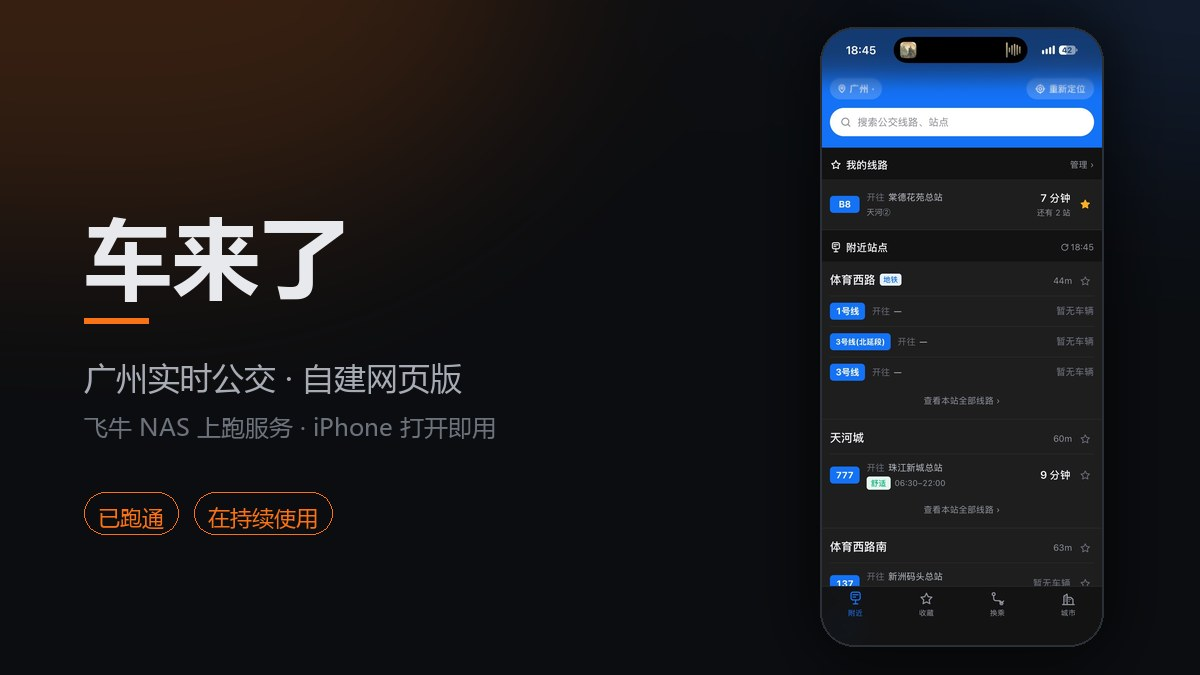
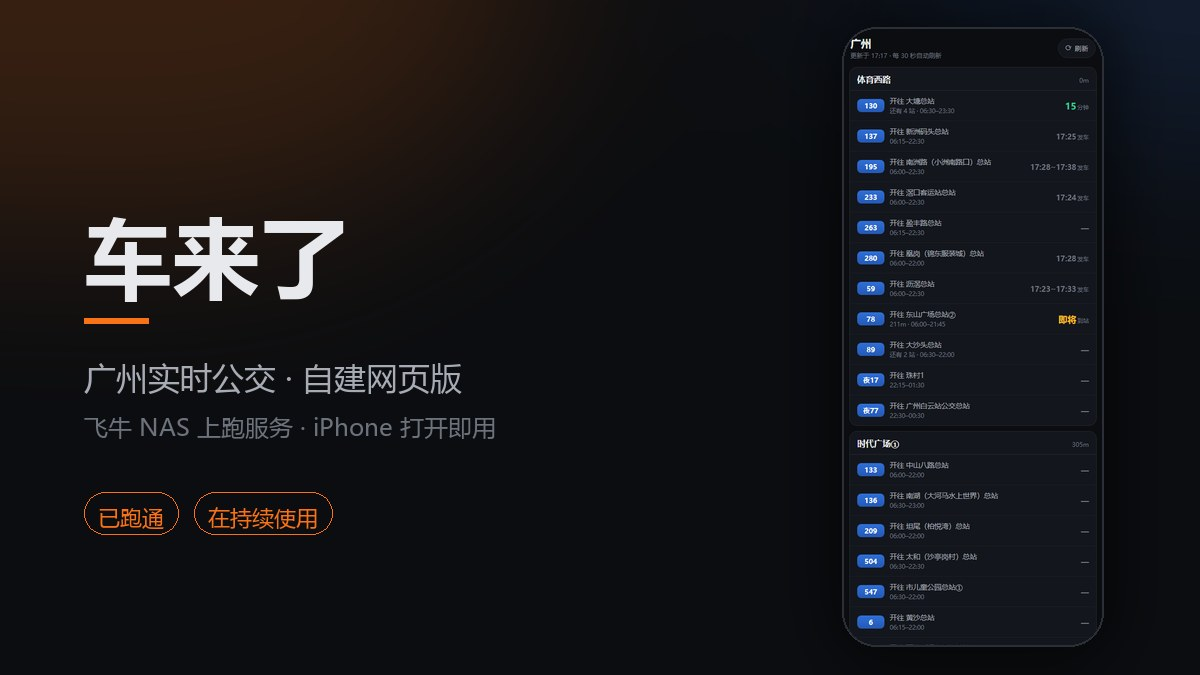
content: 车来了项目改为 Cloudflare 架构（边缘函数签名 + 自动部署）

diff --git a/src/content/projects/chelaile.md b/src/content/projects/chelaile.md
@@ -1,13 +1,13 @@
 ---
-title: 车来了：把广州实时公交数据抓下来自己用
-summary: 想在自己设备上查到站时间。翻了官方 H5 产物，确认签名不在网页里；改用现成的开源实现把数据打通，挂到家里的 NAS 上做成网页，iPhone 打开就能看。
+title: 车来了：把广州实时公交做成自己的网页
+summary: 从官网 H5 产物一路查到能落地的数据链路，先挂在 NAS 上用了半个月，后来重做成 Astro + Cloudflare Pages 全托管：签名和解密都在边缘函数里跑，push 就上线。
 status: 已跑通
 startDate: 2026-10-15
 cost: 0
-hours: 5
-stack: [JavaScript, 前端产物分析, 第三方 API, 飞牛 NAS]
+hours: 12
+stack: [Astro, Cloudflare Pages, Pages Functions, JavaScript, 前端产物分析]
 cover: /covers/chelaile-cover.jpg
-tags: [逆向, 数据抓取, 公交, 数据分析]
+tags: [逆向, 数据抓取, 公交, Cloudflare, 边缘计算]
 featured: true
 changelog:
   - date: 2026-10-15
@@ -15,14 +15,16 @@ changelog:
   - date: 2026-10-15
     note: 改用现成开源实现打通数据，广州线路、站点、在途车、到站倒计时都能取到。
   - date: 2026-10-20
-    note: 部署到飞牛 NAS，做成网页，iPhone 上直接打开查线。
+    note: 第一版落在飞牛 NAS 上，Nuxt 跑服务，iPhone 上直接打开查线。
+  - date: 2026-10-27
+    note: 重做成 Astro + Pages Functions，签名解密搬到边缘，不再依赖家里的机器。
 ---
 
 ## 背景
 
 「车来了」是个实时公交 App，我实际只想要一个功能：**广州的公交车现在到哪了、还有多久到站**。
 
-官方 App 广告多、要登录、要开定位权限。想法很朴素——能不能只取那一小块数据，塞进自己的小屏或者脚本里。
+官方 App 广告多、要登录、要开定位权限。想法很朴素——能不能只取那一小块数据，塞进自己的页面里。
 
 ## 方案
 
@@ -65,8 +67,43 @@ index.html
 拿它验证了一下，数据是真的：城市 ID、站点下的线路、在途车辆、到站倒计时都能拿到。
 **既然路已经有人铺好，就没必要自己去反编译 78MB 的 APK。**
 
-接上去之后就没再停。最后它落在**家里常开的飞牛 NAS** 上，做成一个网页——
-出门前在 iPhone 上打开，看一眼要坐的线路和到站时间，跟装个 App 没区别，但干净得多。
+## 第一版：挂在 NAS 上
+
+最先的版本是 Nuxt 跑在家里那台飞牛 NAS 上，Cloudflare 回源——能用，也用了半个月。
+
+但它有个隐患：**出门在外，能不能查到车取决于家里那台机器**。断电、重启、宽带抽风、系统更新，
+任何一个环节出问题，页面上就是 522。出门前想看车却发现打不开，这种事发生一次就够了。
+
+## 第二版：搬到 Cloudflare 全托管
+
+改造思路和我的个人站一样：**Astro 静态页 + Cloudflare Pages + GitHub 自动部署**，成本 0。
+
+难点只有一个：**签名和解密必须放在服务端**，不能放浏览器（会暴露算法，也有跨域问题）。
+Cloudflare Pages 的边缘函数正好接住这一层：
+
+```
+浏览器 ──GET /api/nearby?lat&lng──▶ Pages Function
+                                      ├─ MD5 签名
+                                      ├─ 请求 web.chelaile.net.cn
+                                      └─ AES-256-ECB 解密，整理成精简 JSON
+```
+
+中间这一段比想象中麻烦，两个坑：
+
+**一、WebCrypto 里没有 MD5**
+
+这倒好办，纯 JS 实现一个，和 `node:crypto` 对拍 7 组（含中文、长串、空串）全一致。
+
+**二、WebCrypto 里也没有 AES-ECB**
+
+这个才是真卡点。WebCrypto 只给 CBC / CTR / GCM，而 **CBC 会校验 PKCS#7 填充**——
+拿它去解 ECB 密文，最后一块必然对不上，直接抛 `OperationError`。
+
+试过把整段密文丢给 CBC 零 IV 解密再用前一个密文块 XOR 还原，思路是对的，但填充校验先报错，
+路走不通。最后老老实实写了个完整的 AES-256 解密（带密钥扩展），和 `node:crypto` 逐字节对拍 20 组，
+在真实密文上解出了 110KB 的 JSON。
+
+好消息是纯 JS 实现**不依赖任何运行时兼容层**，Workers 上直接跑通，不用担心环境差异。
 
 ## 踩坑
 
@@ -74,44 +111,43 @@ index.html
 | --- | --- | --- |
 | 一开始以为落地页里藏着接口 | 埋点字段里出现了 `secret`/`sign` | 分清"上报携带的字段"和"签名算法"，前者不含后者 |
 | 想直接反编译 APK 拿算法 | 包 78MB 且混淆 | 成本太高，先找现成实现验证可行性 |
-| 数据能拿到但不敢直接信 | 调用的是未公开接口，字段语义不明 | 用小范围已知站点对一遍（站点下线路数、在途车数）再依赖 |
-| 接口可能随时变 | 未公开接口没有兼容承诺 | 只取自己需要的那几个字段，不做批量采集，失败了容易发现 |
+| AES 解密报 `OperationError` | WebCrypto 的 CBC 会校验填充，ECB 密文必然失败 | 自己实现 AES-256-ECB，逐字节对拍 |
+| 签名正确但上游回 `status:400` | 上游校验客户端特征（UA / Referer / `xweb_xhr`） | 请求头必须和微信小程序一致，差一个都不行 |
+| 换域名后访问 522 | DNS 改了但边缘还没认领这个域名 | 等两三分钟自动恢复，别急着改配置 |
+| 接口可能随时变 | 未公开接口没有兼容承诺 | 只取最小字段、不做批量，失败了容易发现 |
 
 ## 结果
 
-**跑通了，一直在用：飞牛 NAS 上跑着服务，网页版，iPhone 打开就看。**
+**跑通了，一直在用：[bus.wanyc.xyz](https://bus.wanyc.xyz)**
 
-<img src="/covers/chelaile-screen.jpg" alt="车来了网页版在 iPhone 上的样子：我的线路、附近站点、底部导航" style="max-width:340px;display:block;margin:1.6em auto;border-radius:18px" />
+<img src="/covers/chelaile-screen.jpg" alt="车来了网页版：顶部城市与更新时间，下面是附近站点和每条线的到站时间" style="max-width:340px;display:block;margin:1.6em auto;border-radius:18px" />
 
-界面很简单，三块就够用：
+界面就一层，够用：
 
-- **我的线路**：常坐的置顶，直接显示"还有几分钟 / 还有几站"（截图里 B8 是 7 分钟、还有 2 站）
-- **附近站点**：按距离排，每个站点下面直接列线路和到站时间
-- **底部导航**：附近 / 收藏 / 换乘 / 城市
+- **顶部**：城市 + 更新时间，每 30 秒自动刷新
+- **站点卡片**：站名、距离，下面直接列线路和到站时间
+- **每行线路**：到站倒计时（`15 分钟` / `即将到站`）、还有几站、运营时段；未发车的显示预计发车时刻（`17:25 发车`）
+- 夜班车、短线、地铁换乘站都会单独标出来
 
-细节上做了一点区分：换乘站会单独标出地铁（体育西路这种），公交线路会带运营时段（777 是 06:30–22:00）。
+现在的状态：
 
-- 广州的城市、站点、线路、在途车辆、到站倒计时都能稳定取到
-- 拿手机 Safari 打开网页即可，不用装 App、不用看广告、不用给定位权限
-- 常驻 NAS，不需要我开电脑；NAS 本来就 7×24 开着，等于白嫖
-- 成本 0，只是几个字段的请求
-
-为什么选"网页 + 自建 NAS"而不是做个小程序或者 App：
-
-- **网页是零安装成本**：iPhone 加到主屏幕就当一个图标用，跟 App 一样
-- **NAS 是现成的服务器**：家里本来就有，不用额外租云主机
-- **不自己的账号体系**：就我一个人用，不需要登录、不需要多用户
-
-这个组合让我意识到一件事：**很多时候"做个 App"是不必要的**，
-一个网页 + 一台常开的机器，就够覆盖自己一个人的使用场景。
+- Cloudflare Pages 托管，GitHub push 自动构建，**一分钟内上线**
+- 边缘函数做签名和解密，浏览器只拿到精简后的 JSON
+- 接口带 15 秒缓存，反复打开不会打上游
+- 成本 0：静态页免费、函数免费额度远超个人用量
+- 家里的 NAS 从此可以关掉，出门在外也不再依赖它
 
 ## 复盘
 
 - **"官网看起来有接口"和"接口真的能被复用"是两件事**。先花一小时确认产物里到底有什么，比直接上手反编译省得多
 - 这事最后不是我逆出来的——**认清"我要的是结果，不是过程"**，能直接用现成实现就别死磕
-- 未公开接口最大的成本不是写代码，是**长期维护**：所以只取最小字段、不做批量、出问题能立刻发现
+- **第一次落地选了最快的路（NAS），第二次才换成更稳的路（边缘）**。先用起来是对的，但别停在"能用"上
+- 未公开接口最大的成本不是写代码，是**长期维护**：只取最小字段、不做批量、出问题能立刻发现
+- 平台能力有缺口时（MD5 / ECB），**自己实现往往比绕路更快**——前提是能对拍验证
 
 ## 合规说明
 
-这条记录只写分析结论，不包含接口地址、参数字段和签名实现。
-未公开接口的抓取通常违反服务条款，也可能影响对方服务；真要长期用，走开放数据或买接口更省心。
+只做**只读、低频**的「附近站点」查询，不做批量采集、不转售数据、页面设了 `noindex` 不被搜索引擎收录。
+
+签名与解密用到了社区开源项目已公开的常量和算法，实现放在自己的仓库里；上游一旦改签名就会失效，
+届时优先去看上游参数有没有变。真要长期稳定使用，走开放数据或买接口更省心。
